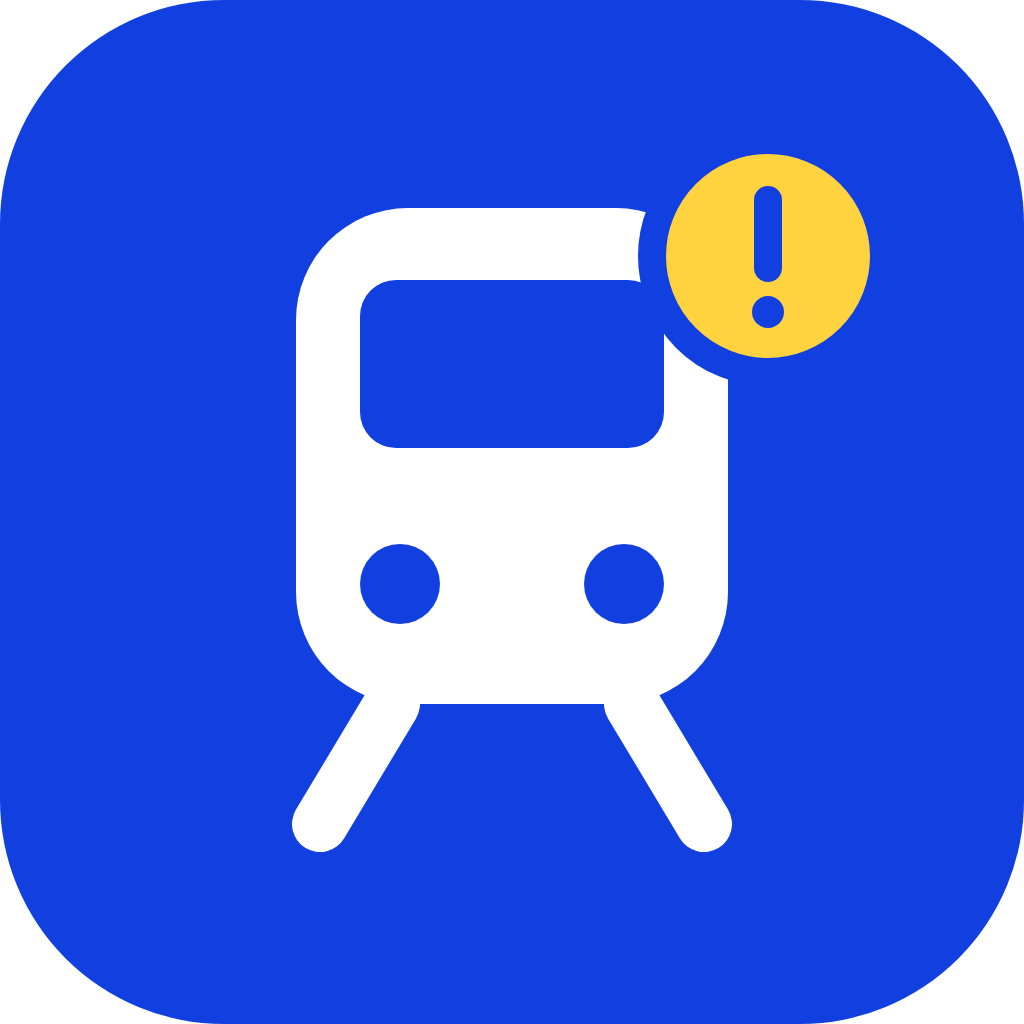
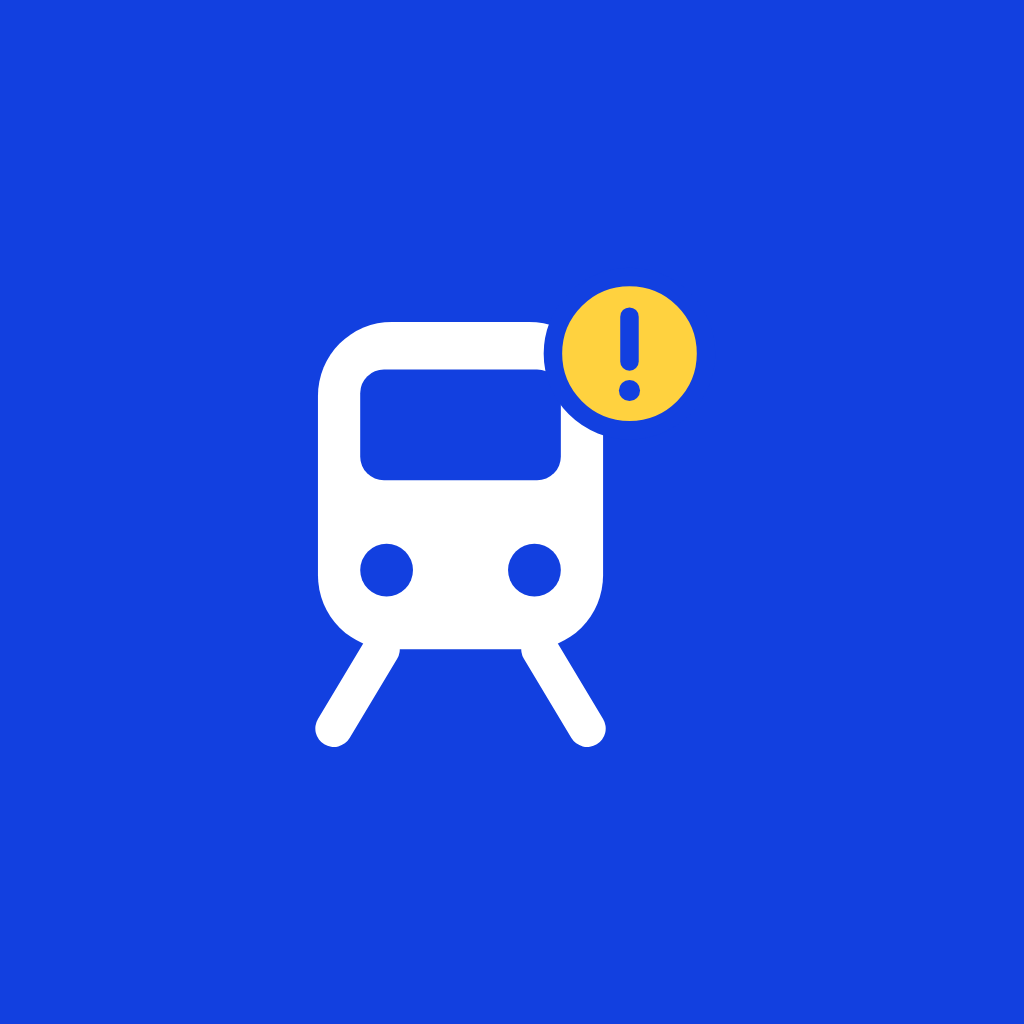
Icono más grande y pantalla de carga visible en Android
- Icono adaptable: fondo cobalto liso y el tren ocupando la zona segura (antes llevaba un margen doble)
- Pantalla de carga: icono propio a tamaño correcto y se mantiene al menos 1 s

Claude-Session: https://claude.ai/code/session_013s3rcQBLwWDXrbFNnCBKZy

diff --git a/web/src/native.ts b/web/src/native.ts
@@ -44,10 +44,13 @@ export async function initNative() {
   if (fcmEnabled() && wants && perm.receive === 'granted') PushNotifications.register().catch(() => {});
 }
 
+const startedAt = Date.now();
+/** Oculta la pantalla de carga, pero no antes de ~1 s: si los horarios ya están guardados carga tan rápido que ni se vería. */
 export async function hideSplash() {
   if (!isNative()) return;
   const { SplashScreen } = await import('@capacitor/splash-screen');
-  SplashScreen.hide({ fadeOutDuration: 250 }).catch(() => {});
+  const wait = Math.max(0, 1000 - (Date.now() - startedAt));
+  setTimeout(() => SplashScreen.hide({ fadeOutDuration: 300 }).catch(() => {}), wait);
 }
 
 export async function nativePermission(): Promise<NotificationPermission> {
